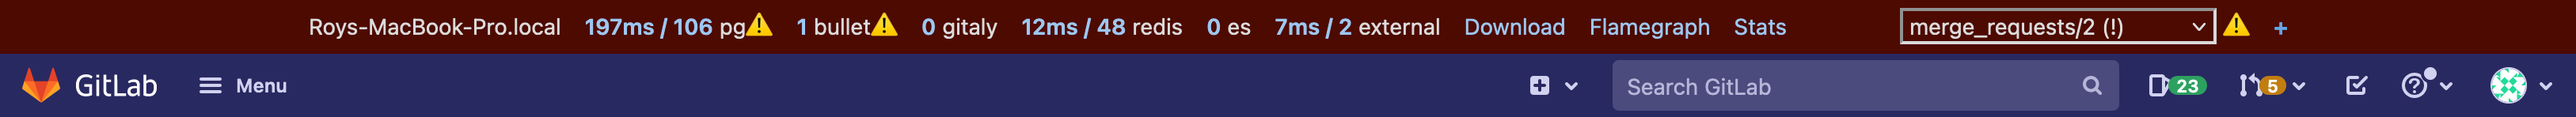
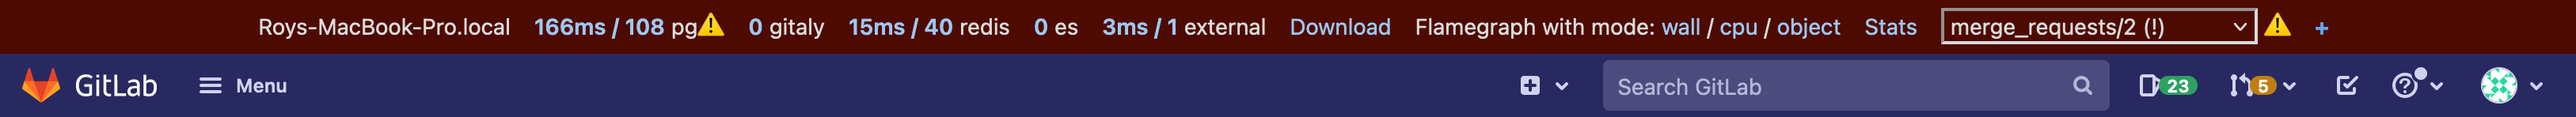
Add sampling mode buttons for flamegraph in the performance bar

diff --git a/app/assets/javascripts/performance_bar/components/performance_bar_app.vue b/app/assets/javascripts/performance_bar/components/performance_bar_app.vue
@@ -124,9 +124,6 @@ export default {
       const fileName = this.requests[0].truncatedUrl;
       return `${fileName}_perf_bar_${Date.now()}.json`;
     },
-    flamegraphPath() {
-      return mergeUrlParams({ performance_bar: 'flamegraph' }, window.location.href);
-    },
   },
   mounted() {
     this.currentRequest = this.requestId;
@@ -134,6 +131,12 @@ export default {
   methods: {
     changeCurrentRequest(newRequestId) {
       this.currentRequest = newRequestId;
+    },
+    flamegraphPath(mode) {
+      return mergeUrlParams(
+        { performance_bar: 'flamegraph', stackprof_mode: mode },
+        window.location.href,
+      );
     },
   },
   safeHtmlConfig: { ADD_TAGS: ['gl-emoji'] },
@@ -180,8 +183,17 @@ export default {
         }}</a>
       </div>
       <div v-if="currentRequest.details" id="peek-flamegraph" class="view">
-        <a class="gl-text-blue-200" :href="flamegraphPath">{{
-          s__('PerformanceBar|Flamegraph')
+        <span class="gl-text-white-200">{{ s__('PerformanceBar|Flamegraph with mode:') }}</span>
+        <a class="gl-text-blue-200" :href="flamegraphPath('wall')">{{
+          s__('PerformanceBar|wall')
+        }}</a>
+        /
+        <a class="gl-text-blue-200" :href="flamegraphPath('cpu')">{{
+          s__('PerformanceBar|cpu')
+        }}</a>
+        /
+        <a class="gl-text-blue-200" :href="flamegraphPath('object')">{{
+          s__('PerformanceBar|object')
         }}</a>
       </div>
       <a v-if="statsUrl" class="gl-text-blue-200 view" :href="statsUrl">{{

diff --git a/spec/lib/gitlab/middleware/speedscope_spec.rb b/spec/lib/gitlab/middleware/speedscope_spec.rb
@@ -46,7 +46,7 @@ RSpec.describe Gitlab::Middleware::Speedscope do
           allow(env).to receive(:[]).with('warden').and_return(double('Warden', user: create(:admin)))
         end
 
-        it 'runs StackProf and returns a flamegraph' do
+        it 'returns a flamegraph' do
           expect(StackProf).to receive(:run).and_call_original
 
           status, headers, body = middleware.call(env)
@@ -54,6 +54,56 @@ RSpec.describe Gitlab::Middleware::Speedscope do
           expect(status).to eq(200)
           expect(headers).to eq({ 'Content-Type' => 'text/html' })
           expect(body.first).to include('speedscope-iframe')
+        end
+
+        context 'when the stackprof_mode parameter is set and valid' do
+          let(:env) { Rack::MockRequest.env_for('/', params: { 'performance_bar' => 'flamegraph', 'stackprof_mode' => 'cpu' }) }
+
+          it 'runs StackProf in the mode specified in the stackprof_mode parameter' do
+            expect(StackProf).to receive(:run).with(hash_including(mode: :cpu))
+
+            middleware.call(env)
+          end
+        end
+
+        context 'when the stackprof_mode parameter is not set' do
+          let(:env) { Rack::MockRequest.env_for('/', params: { 'performance_bar' => 'flamegraph' }) }
+
+          it 'runs StackProf in wall mode' do
+            expect(StackProf).to receive(:run).with(hash_including(mode: :wall))
+
+            middleware.call(env)
+          end
+        end
+
+        context 'when the stackprof_mode parameter is invalid' do
+          let(:env) { Rack::MockRequest.env_for('/', params: { 'performance_bar' => 'flamegraph', 'stackprof_mode' => 'invalid' }) }
+
+          it 'runs StackProf in wall mode' do
+            expect(StackProf).to receive(:run).with(hash_including(mode: :wall))
+
+            middleware.call(env)
+          end
+        end
+
+        context 'when the stackprof_mode parameter is set to object mode' do
+          let(:env) { Rack::MockRequest.env_for('/', params: { 'performance_bar' => 'flamegraph', 'stackprof_mode' => 'object' }) }
+
+          it 'runs StackProf with an interval of 100' do
+            expect(StackProf).to receive(:run).with(hash_including(interval: 100))
+
+            middleware.call(env)
+          end
+        end
+
+        context 'when the stackprof_mode parameter is not set to object mode' do
+          let(:env) { Rack::MockRequest.env_for('/', params: { 'performance_bar' => 'flamegraph', 'stackprof_mode' => 'wall' }) }
+
+          it 'runs StackProf with an interval of 10_100' do
+            expect(StackProf).to receive(:run).with(hash_including(interval: 10_100))
+
+            middleware.call(env)
+          end
         end
       end
     end

diff --git a/lib/gitlab/middleware/speedscope.rb b/lib/gitlab/middleware/speedscope.rb
@@ -19,11 +19,12 @@ module Gitlab
         require 'stackprof'
 
         begin
+          mode = stackprof_mode(request)
           flamegraph = ::StackProf.run(
-            mode: :wall,
+            mode: mode,
             raw: true,
             aggregate: false,
-            interval: ::Gitlab::StackProf::DEFAULT_INTERVAL_US
+            interval: ::Gitlab::StackProf.interval(mode)
           ) do
             _, _, body = @app.call(env)
           end
@@ -64,7 +65,7 @@ module Gitlab
                 var iframe = document.createElement('IFRAME');
                 iframe.setAttribute('id', 'speedscope-iframe');
                 document.body.appendChild(iframe);
-                var iframeUrl = '#{speedscope_path}#profileURL=' + objUrl + '&title=' + 'Flamegraph for #{CGI.escape(path)}';
+                var iframeUrl = '#{speedscope_path}#profileURL=' + objUrl + '&title=' + 'Flamegraph for #{CGI.escape(path)} in #{stackprof_mode(request)} mode';
                 iframe.setAttribute('src', iframeUrl);
               </script>
             </body>
@@ -72,6 +73,17 @@ module Gitlab
         HTML
 
         [200, headers, [html]]
+      end
+
+      def stackprof_mode(request)
+        case request.params['stackprof_mode']&.to_sym
+        when :cpu
+          :cpu
+        when :object
+          :object
+        else
+          :wall
+        end
       end
     end
   end

diff --git a/lib/gitlab/stack_prof.rb b/lib/gitlab/stack_prof.rb
@@ -75,20 +75,20 @@ module Gitlab
             current_timeout_s = nil
           else
             mode = ENV['STACKPROF_MODE']&.to_sym || DEFAULT_MODE
-            interval = ENV['STACKPROF_INTERVAL']&.to_i
-            interval ||= (mode == :object ? DEFAULT_INTERVAL_EVENTS : DEFAULT_INTERVAL_US)
+            stackprof_interval = ENV['STACKPROF_INTERVAL']&.to_i
+            stackprof_interval ||= interval(mode)
 
             log_event(
               'starting profile',
               profile_mode: mode,
-              profile_interval: interval,
+              profile_interval: stackprof_interval,
               profile_timeout: timeout_s
             )
 
             ::StackProf.start(
               mode: mode,
               raw: Gitlab::Utils.to_boolean(ENV['STACKPROF_RAW'] || 'true'),
-              interval: interval
+              interval: stackprof_interval
             )
             current_timeout_s = timeout_s
           end
@@ -130,6 +130,10 @@ module Gitlab
         message: event,
         pid: Process.pid
       }.merge(labels.compact))
+    end
+
+    def self.interval(mode)
+      mode == :object ? DEFAULT_INTERVAL_EVENTS : DEFAULT_INTERVAL_US
     end
   end
 end

diff --git a/doc/administration/monitoring/performance/performance_bar.md b/doc/administration/monitoring/performance/performance_bar.md
@@ -65,7 +65,11 @@ From left to right, the performance bar displays:
   can be added by its full URL (authenticated as the current user), or by the value of
   its `X-Request-Id` header.
 - **Download**: a link to download the raw JSON used to generate the Performance Bar reports.
-- **Flamegraph**: a link to generate a [flamegraph](../../../development/profiling.md#speedscope-flamegraphs) of the current URL.
+- **Flamegraph** with mode: a link to generate a [flamegraph](../../../development/profiling.md#speedscope-flamegraphs) 
+  of the current URL with the selected [Stackprof mode](https://github.com/tmm1/stackprof#sampling):
+  - The **Wall** mode samples every *interval* of the time on a clock on a wall. The interval is set to `10100` microseconds.
+  - The **CPU** mode samples every *interval* of CPU activity. The interval is set to `10100` microseconds.
+  - The **Object** mode samples every *interval*. The interval is set to `100` allocations.
 - **Request Selector**: a select box displayed on the right-hand side of the
   Performance Bar which enables you to view these metrics for any requests made while
   the current page was open. Only the first two requests per unique URL are captured.

diff --git a/doc/development/profiling.md b/doc/development/profiling.md
@@ -98,11 +98,13 @@ profile and log output to S3.
 
 ## Speedscope flamegraphs
 
-You can generate a flamegraph for a particular URL by selecting the flamegraph button in the performance bar or by adding the `performance_bar=flamegraph` parameter to the request.
+You can generate a flamegraph for a particular URL by selecting a flamegraph sampling mode button in the performance bar or by adding the `performance_bar=flamegraph` parameter to the request.
 
 ![Speedscope](img/speedscope_v13_12.png)
 
-More information about the views can be found in the [Speedscope docs](https://github.com/jlfwong/speedscope#views)
+Find more information about the views in the [Speedscope docs](https://github.com/jlfwong/speedscope#views).
+
+Find more information about different sampling modes in the [Stackprof docs](https://github.com/tmm1/stackprof#sampling).
 
 This is enabled for all users that can access the performance bar.
 
